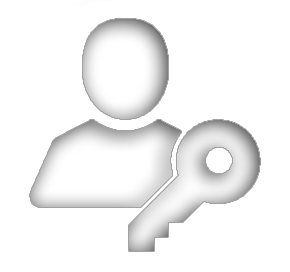
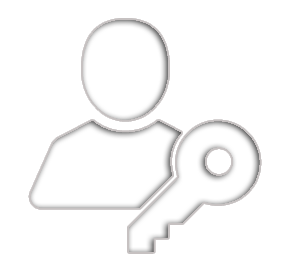
wdw

Changed region(s): [[0.0931, 0.0588, 0.9, 0.9412]]

diff --git a/index.php b/index.php
@@ -81,7 +81,7 @@ module.exports = {
             <div class="ml-4 relative">
               <div>
                   <a href="login/index.php">  
-                  	<img class="h-10 w-10 rounded-md" src="assets/img/sesion_.png" alt=""> 
+                  	<img class="h-10 w-10 rounded-md" src="assets/img/i_S.png" alt=""> 
                   </a>
               
               </div>
